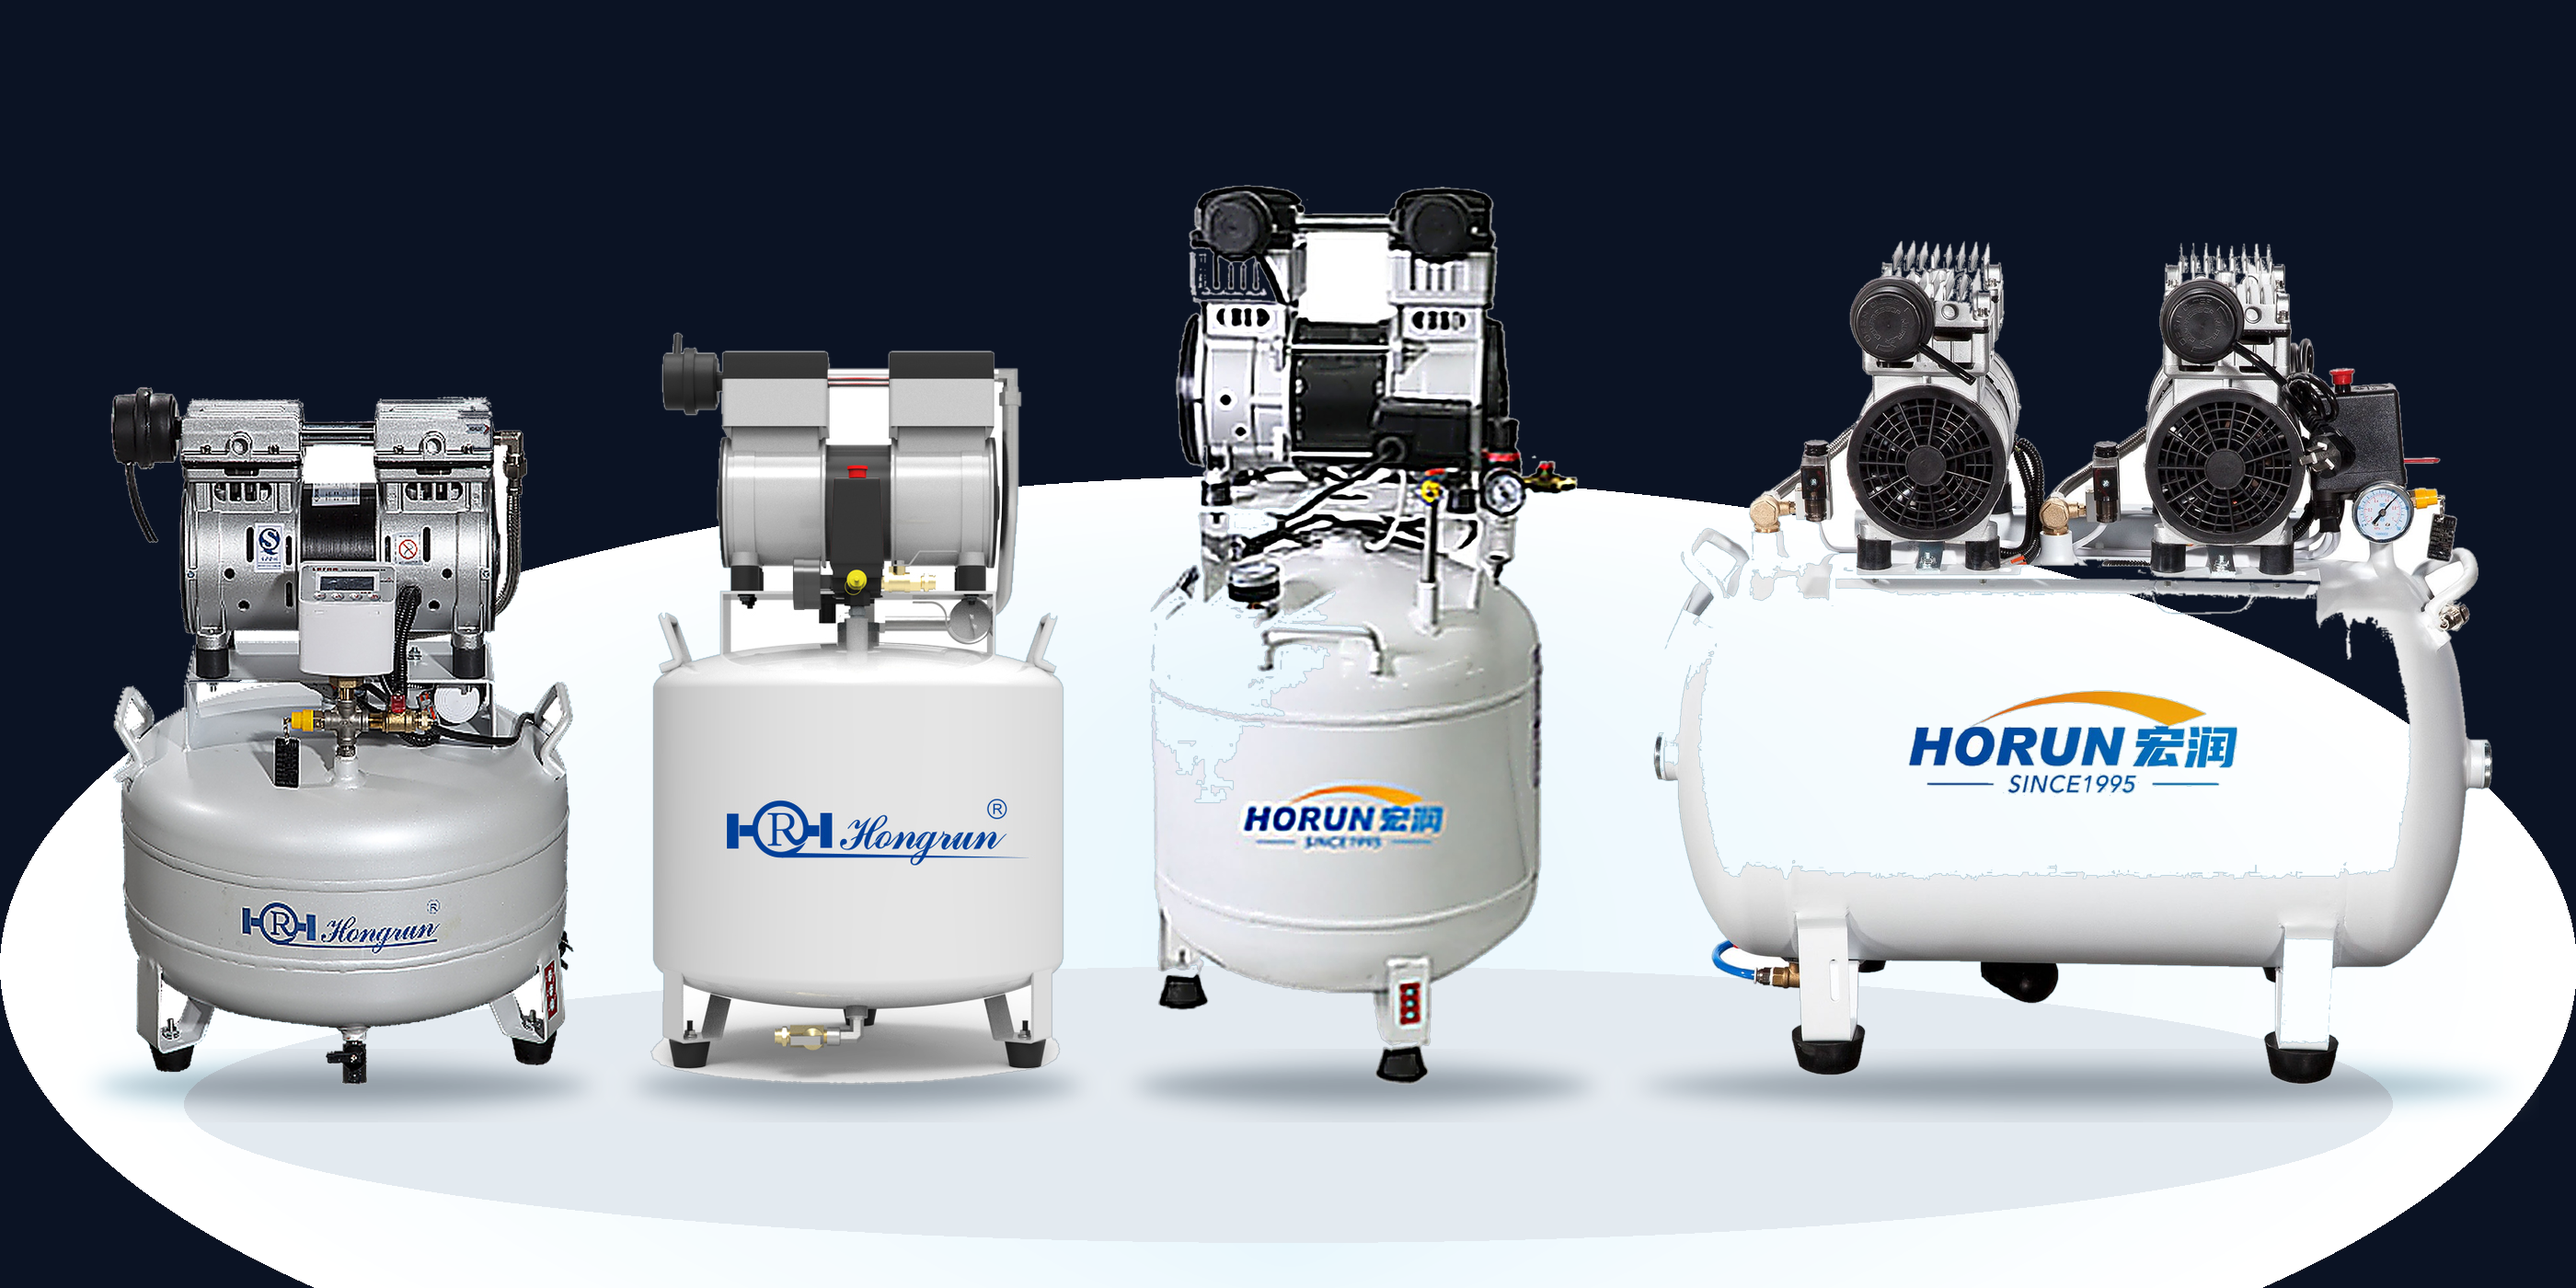
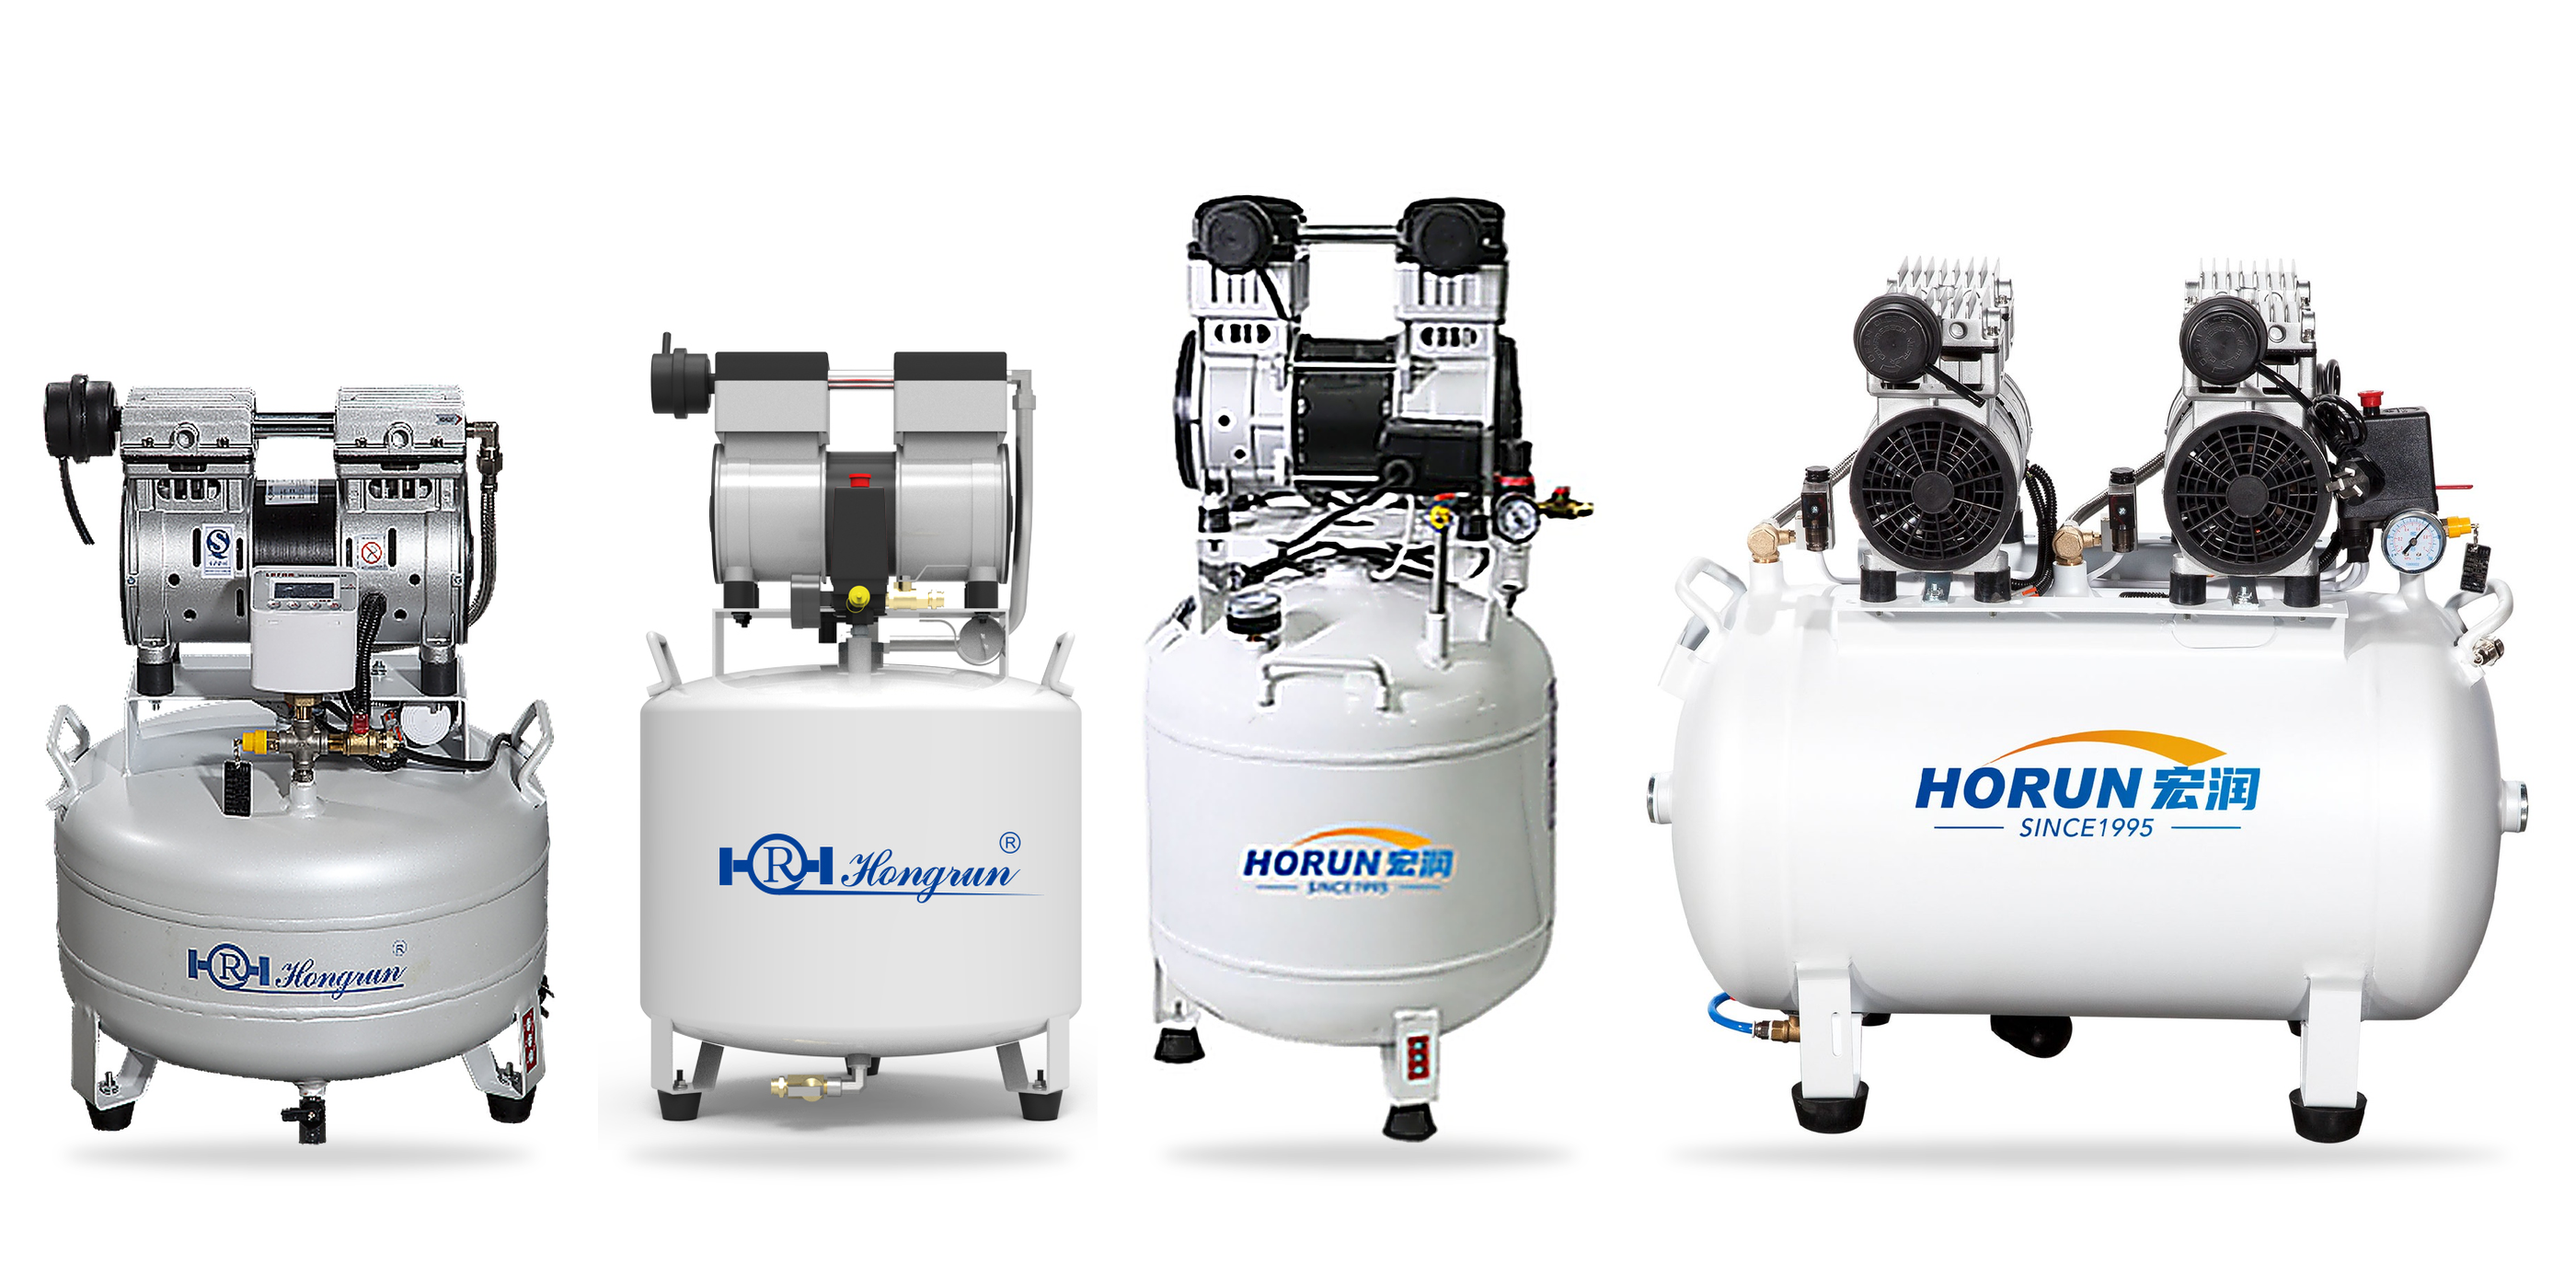
fix(media): render seamless zero-cutout white studio portfolio showcase eliminating erosion artifacts and restoring pristine tank paint

diff --git a/news.html b/news.html
@@ -158,8 +158,8 @@ tailwind.config = {
       <article class="blog-card bg-white rounded-xl border-2 border-brand-blue shadow-lg overflow-hidden flex flex-col justify-between group relative">
         <div>
           <!-- Thumbnail -->
-          <a href="articles/20260902-dental-air-purity-engineering-guide/index.html" class="block h-44 bg-slate-950 relative overflow-hidden cursor-pointer">
-            <img data-zoom data-hd="assets/images/exploded/01-hy-compressor-exploded.jpg" src="assets/images/products/hy-family-portfolio.png" data-hd="assets/images/products/hy-family-portfolio.jpg" alt="Hongrun Medical Dental Compressor Family Portfolio" class="w-full h-full object-cover group-hover:scale-105 transition-transform duration-500"/>
+          <a href="articles/20260902-dental-air-purity-engineering-guide/index.html" class="block h-44 bg-white relative overflow-hidden cursor-pointer">
+            <img data-zoom data-hd="assets/images/exploded/01-hy-compressor-exploded.jpg" src="assets/images/products/hy-family-portfolio.jpg?v=20260902_v4" data-hd="assets/images/products/hy-family-portfolio.jpg?v=20260902_v4" alt="Hongrun Medical Dental Compressor Family Portfolio" class="w-full h-full object-contain p-2 group-hover:scale-105 transition-transform duration-500"/>
             <div class="absolute inset-0 bg-gradient-to-t from-slate-950/80 via-transparent to-transparent"></div>
             <span class="absolute bottom-2.5 right-3 text-white text-[11px] font-bold bg-brand-blue/85 backdrop-blur px-2.5 py-1 rounded shadow-md flex items-center gap-1.5"><i class="fa-solid fa-file-waveform text-sky-300"></i> Engineering Whitepaper</span>
           </a>
@@ -202,8 +202,8 @@ tailwind.config = {
       <article class="blog-card bg-white rounded-xl border-2 border-teal-500/40 shadow-md overflow-hidden flex flex-col justify-between group relative">
         <div>
           <!-- 3D Exploded View Thumbnail -->
-          <a href="articles/20260825-dental-suction-exploded-anatomy/index.html" class="block h-44 bg-slate-950 relative overflow-hidden cursor-pointer">
-            <img data-zoom data-hd="assets/images/exploded/02-hvs-suction-exploded.jpg" src="assets/images/exploded/02-hvs-suction-exploded.jpg" alt="3D CAD Exploded Engineering Anatomy of HVS Dental Vacuum System" class="w-full h-full object-cover group-hover:scale-105 transition-transform duration-500"/>
+          <a href="articles/20260825-dental-suction-exploded-anatomy/index.html" class="block h-44 bg-white relative overflow-hidden cursor-pointer">
+            <img data-zoom data-hd="assets/images/exploded/02-hvs-suction-exploded.jpg" src="assets/images/exploded/02-hvs-suction-exploded.jpg" alt="3D CAD Exploded Engineering Anatomy of HVS Dental Vacuum System" class="w-full h-full object-contain p-2 group-hover:scale-105 transition-transform duration-500"/>
             <div class="absolute inset-0 bg-gradient-to-t from-slate-950/70 via-transparent to-transparent"></div>
             <span class="absolute bottom-2.5 right-3 text-white/90 text-[11px] font-medium bg-black/60 backdrop-blur px-2 py-0.5 rounded flex items-center gap-1">
               <i class="fa-solid fa-fan text-teal-300"></i> 3D Blueprint
@@ -247,8 +247,8 @@ tailwind.config = {
       <article class="blog-card bg-white rounded-xl border-2 border-brand-blue/40 shadow-md overflow-hidden flex flex-col justify-between group relative">
         <div>
           <!-- 3D Exploded View Thumbnail -->
-          <a href="articles/20260820-compressor-exploded-anatomy/index.html" class="block h-44 bg-slate-950 relative overflow-hidden cursor-pointer">
-            <img data-zoom data-hd="assets/images/exploded/01-hy-compressor-exploded.jpg" src="assets/images/exploded/01-hy-compressor-exploded.jpg" alt="3D CAD Exploded Engineering Anatomy of Medical Oil-Free Compressor" class="w-full h-full object-cover group-hover:scale-105 transition-transform duration-500"/>
+          <a href="articles/20260820-compressor-exploded-anatomy/index.html" class="block h-44 bg-white relative overflow-hidden cursor-pointer">
+            <img data-zoom data-hd="assets/images/exploded/01-hy-compressor-exploded.jpg" src="assets/images/exploded/01-hy-compressor-exploded.jpg" alt="3D CAD Exploded Engineering Anatomy of Medical Oil-Free Compressor" class="w-full h-full object-contain p-2 group-hover:scale-105 transition-transform duration-500"/>
             <div class="absolute inset-0 bg-gradient-to-t from-slate-950/70 via-transparent to-transparent"></div>
             <span class="absolute bottom-2.5 right-3 text-white/90 text-[11px] font-medium bg-black/60 backdrop-blur px-2 py-0.5 rounded flex items-center gap-1">
               <i class="fa-solid fa-cube text-brand-sky"></i> 3D Blueprint
@@ -294,7 +294,7 @@ tailwind.config = {
         <div>
           <!-- Clean 16:10 Aspect Thumbnail -->
           <div class="h-44 bg-slate-900 relative overflow-hidden cursor-pointer">
-            <img data-zoom data-hd="assets/images/news/news_11_15chairs_1.jpg" src="assets/images/news/news_11_15chairs_1.jpg" alt="15 Dental Chairs Engineering Sizing" class="w-full h-full object-cover group-hover:scale-105 transition-transform duration-500"/>
+            <img data-zoom data-hd="assets/images/news/news_11_15chairs_1.jpg" src="assets/images/news/news_11_15chairs_1.jpg" alt="15 Dental Chairs Engineering Sizing" class="w-full h-full object-contain p-2 group-hover:scale-105 transition-transform duration-500"/>
             <div class="absolute inset-0 bg-gradient-to-t from-slate-950/60 via-transparent to-transparent"></div>
             <span class="absolute bottom-2.5 right-3 text-white/80 text-[11px] font-medium bg-black/50 backdrop-blur px-2 py-0.5 rounded">
               <i class="fa-solid fa-camera"></i> 4 Photos
@@ -339,7 +339,7 @@ tailwind.config = {
         <div>
           <!-- Clean 16:10 Aspect Thumbnail -->
           <div class="h-44 bg-slate-900 relative overflow-hidden cursor-pointer">
-            <img data-zoom data-hd="assets/images/news/news_8_beijing_1.png" src="assets/images/news/news_8_beijing_1.png" alt="Hongrun Quality Tour Beijing" class="w-full h-full object-cover group-hover:scale-105 transition-transform duration-500"/>
+            <img data-zoom data-hd="assets/images/news/news_8_beijing_1.png" src="assets/images/news/news_8_beijing_1.png" alt="Hongrun Quality Tour Beijing" class="w-full h-full object-contain p-2 group-hover:scale-105 transition-transform duration-500"/>
             <div class="absolute inset-0 bg-gradient-to-t from-slate-950/60 via-transparent to-transparent"></div>
             <span class="absolute bottom-2.5 right-3 text-white/80 text-[11px] font-medium bg-black/50 backdrop-blur px-2 py-0.5 rounded">
               <i class="fa-solid fa-camera"></i> 3 Photos
@@ -384,7 +384,7 @@ tailwind.config = {
         <div>
           <!-- Clean 16:10 Aspect Thumbnail -->
           <div class="h-44 bg-slate-900 relative overflow-hidden cursor-pointer">
-            <img data-zoom data-hd="assets/images/news/news_10_expo_2.png" src="assets/images/news/news_10_expo_2.png" alt="Dental South China Expo" class="w-full h-full object-cover group-hover:scale-105 transition-transform duration-500"/>
+            <img data-zoom data-hd="assets/images/news/news_10_expo_2.png" src="assets/images/news/news_10_expo_2.png" alt="Dental South China Expo" class="w-full h-full object-contain p-2 group-hover:scale-105 transition-transform duration-500"/>
             <div class="absolute inset-0 bg-gradient-to-t from-slate-950/60 via-transparent to-transparent"></div>
             <span class="absolute bottom-2.5 right-3 text-white/80 text-[11px] font-medium bg-black/50 backdrop-blur px-2 py-0.5 rounded">
               <i class="fa-solid fa-camera"></i> 4 Photos
@@ -429,7 +429,7 @@ tailwind.config = {
         <div>
           <!-- Clean 16:10 Aspect Thumbnail -->
           <div class="h-44 bg-slate-900 relative overflow-hidden cursor-pointer">
-            <img data-zoom data-hd="assets/images/news/news_9_jinan_1.png" src="assets/images/news/news_9_jinan_1.png" alt="Hongrun Quality Tour Jinan" class="w-full h-full object-cover group-hover:scale-105 transition-transform duration-500"/>
+            <img data-zoom data-hd="assets/images/news/news_9_jinan_1.png" src="assets/images/news/news_9_jinan_1.png" alt="Hongrun Quality Tour Jinan" class="w-full h-full object-contain p-2 group-hover:scale-105 transition-transform duration-500"/>
             <div class="absolute inset-0 bg-gradient-to-t from-slate-950/60 via-transparent to-transparent"></div>
             <span class="absolute bottom-2.5 right-3 text-white/80 text-[11px] font-medium bg-black/50 backdrop-blur px-2 py-0.5 rounded">
               <i class="fa-solid fa-camera"></i> 4 Photos

diff --git a/articles/20260902-dental-air-purity-engineering-guide/index.html b/articles/20260902-dental-air-purity-engineering-guide/index.html
@@ -153,17 +153,18 @@ tailwind.config = {
          Exact 1:1 match with blog listing cover
          ========================================== -->
     <div class="mb-12 not-prose">
-      <div class="bg-slate-950 rounded-2xl overflow-hidden border border-slate-800 shadow-2xl relative group">
-        <img data-zoom src="../../assets/images/products/hy-family-portfolio.jpg" 
-             src="../../assets/images/products/hy-family-portfolio.png" 
-             alt="Hongrun Dental Oil-Free Air Compressor Full Family Matrix" 
-             class="w-full max-h-[500px] object-contain mx-auto bg-slate-950 p-6 sm:p-8 cursor-pointer group-hover:scale-[1.02] transition-transform duration-500"/>
-        <div class="absolute bottom-0 inset-x-0 bg-gradient-to-t from-slate-950/90 via-slate-950/50 to-transparent p-4 sm:p-6 flex flex-col sm:flex-row items-start sm:items-center justify-between gap-2 text-white">
+      <div class="bg-gradient-to-b from-slate-50 to-white rounded-2xl overflow-hidden border border-slate-200 shadow-xl relative group">
+        <img data-zoom 
+             src="../../assets/images/products/hy-family-portfolio.jpg?v=20260902_v4" 
+             data-hd="../../assets/images/products/hy-family-portfolio.jpg?v=20260902_v4"
+             alt="Hongrun Medical Dental Oil-Free Compressor Family Matrix (HY-100, HY-200, HY-300, HYTG-300)" 
+             class="w-full max-h-[560px] object-contain mx-auto p-4 sm:p-6 cursor-pointer group-hover:scale-[1.01] transition-transform duration-500"/>
+        <div class="bg-slate-900/95 backdrop-blur border-t border-slate-800 p-4 sm:p-5 flex flex-col sm:flex-row items-start sm:items-center justify-between gap-2 text-white">
           <div>
-            <span class="text-[10px] uppercase font-bold tracking-wider bg-brand-blue text-white px-2.5 py-0.5 rounded shadow">Official Cover Image</span>
-            <p class="text-xs sm:text-sm text-slate-200 font-medium mt-1">Hongrun Medical Oil-Free Wobble Piston Compressor Family (HY-100 to HYT-500 Matrix)</p>
+            <span class="text-[10px] uppercase font-bold tracking-wider bg-brand-blue text-white px-2.5 py-0.5 rounded shadow">Official Whitepaper Cover</span>
+            <p class="text-xs sm:text-sm text-slate-200 font-medium mt-1">Hongrun Medical Precision Oil-Free Compressor Lineup (HY-100 · HY-200 32L · HY-300 50L · HYTG-300 90L)</p>
           </div>
-          <span class="text-xs text-sky-400 font-semibold flex items-center gap-1.5 flex-shrink-0 bg-black/40 backdrop-blur px-3 py-1.5 rounded-lg border border-white/10">
+          <span class="text-xs text-sky-400 font-semibold flex items-center gap-1.5 flex-shrink-0 bg-white/10 px-3 py-1.5 rounded-lg border border-white/10">
             <i class="fa-solid fa-magnifying-glass-plus"></i> Ultra-HD 4K Lightbox
           </span>
         </div>
